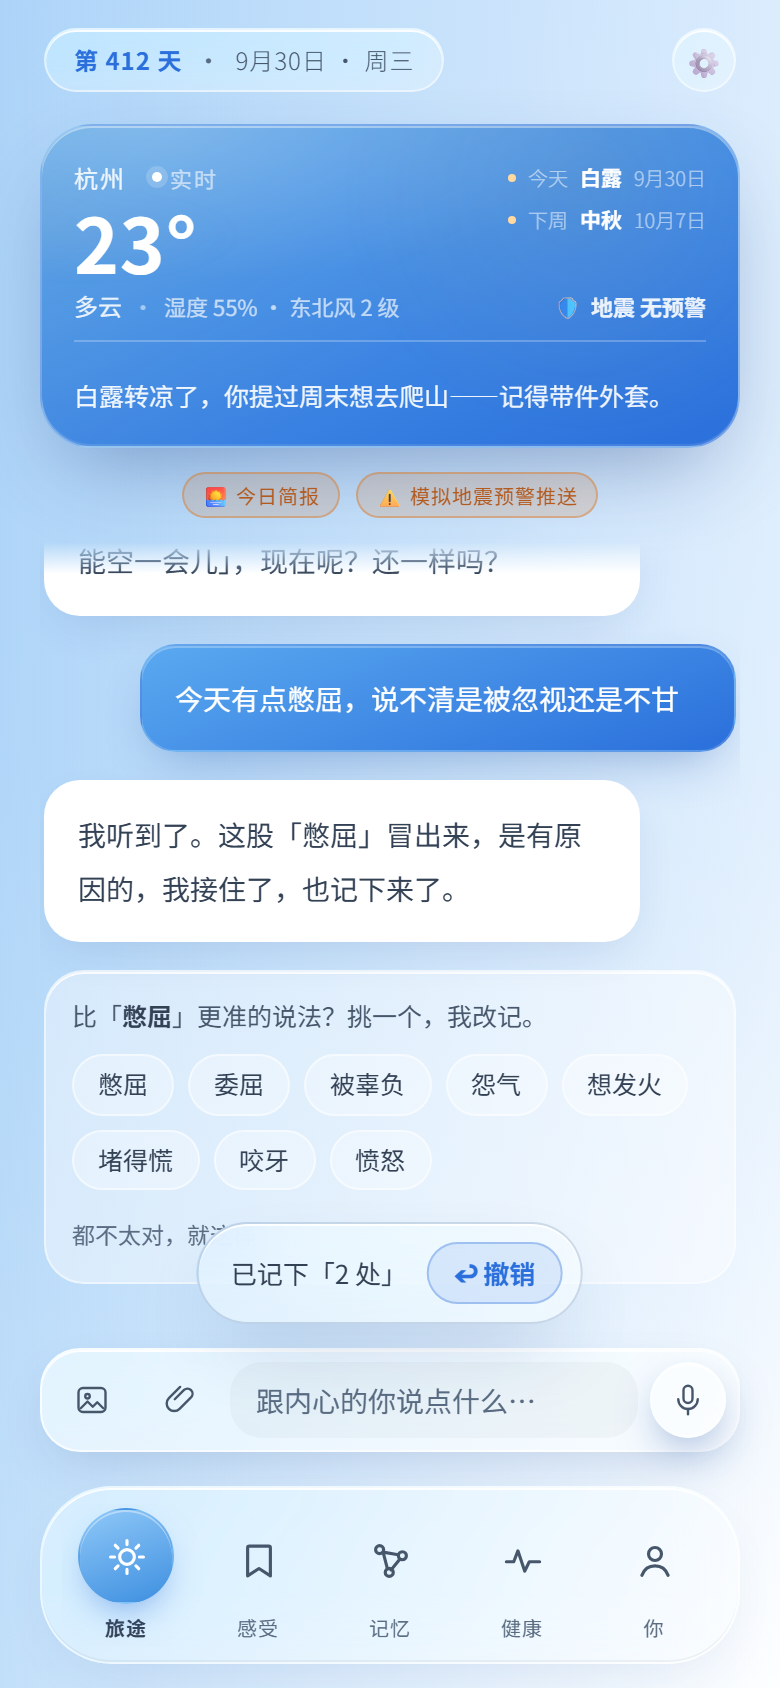
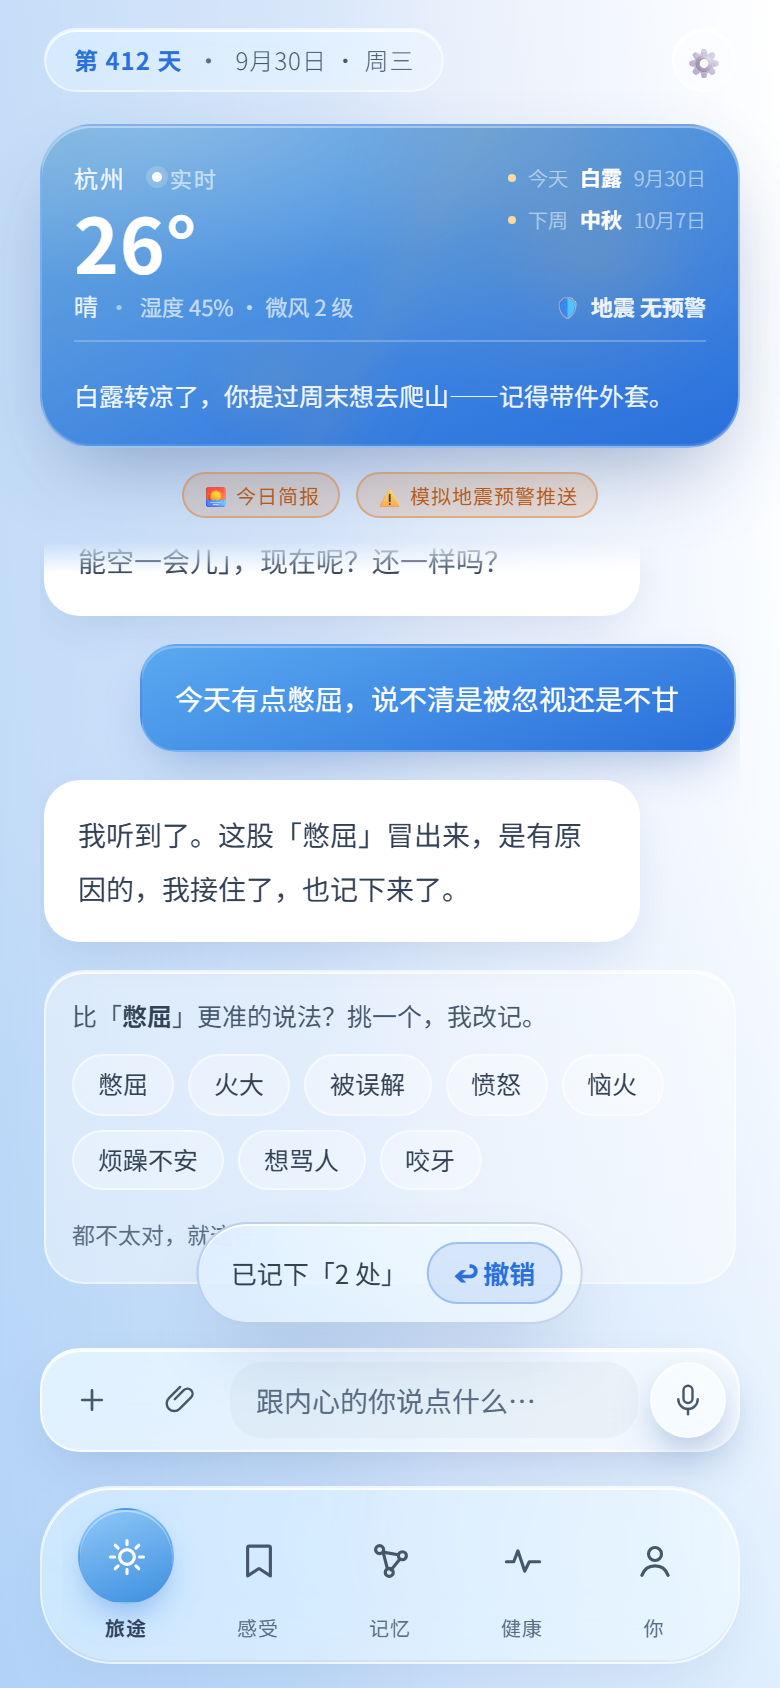
feat: + 键与毛玻璃二级菜单（图片/文件/拍照）

diff --git a/prototype/index.html b/prototype/index.html
@@ -2136,6 +2136,29 @@
 .chat-input.voice-mode .vn-frame { display: flex; }
 .chat-input.voice-mode .chat-tool,
 .chat-input.voice-mode .chat-text { display: none; }
+  /* v102 · 「+」二级菜单：毛玻璃卡片 */
+  .plus-menu{
+    position:absolute;z-index:60;min-width:196px;padding:6px;
+    border-radius:18px;
+    background:var(--glass-bg);
+    border:1px solid var(--glass-border);
+    -webkit-backdrop-filter:blur(24px) saturate(160%);
+    backdrop-filter:blur(24px) saturate(160%);
+    box-shadow:0 20px 44px -20px rgba(20,50,90,.5), inset 0 1px 0 var(--glass-hi);
+    animation:plusIn .18s cubic-bezier(.22,1,.36,1) both;
+  }
+  @keyframes plusIn{ from{opacity:0;transform:translateY(6px) scale(.98);} }
+  .plus-item{
+    display:flex;align-items:center;gap:10px;width:100%;
+    padding:9px 10px;border-radius:12px;border:none;background:transparent;
+    color:var(--text);font-family:inherit;font-size:13.5px;text-align:left;
+    cursor:pointer;transition:background .15s ease;
+  }
+  .plus-item:hover{background:var(--glass-bg-2);}
+  .plus-ico{display:grid;place-items:center;width:30px;height:30px;border-radius:10px;background:var(--glass-bg-2);color:var(--text-dim);flex:none;}
+  .plus-txt{display:flex;flex-direction:column;line-height:1.3;}
+  .plus-txt b{font-weight:500;}
+  .plus-txt i{font-style:normal;font-size:10.5px;color:var(--text-faint);}
 .chat-input.voice-mode .vn {
   width: 100% !important;
   height: 38px;
@@ -2653,7 +2676,7 @@
 
       <div class="chat-tip" id="chatTip" data-page-node-id="pQfkq11SjvINSs4wKmy1u8"></div>
       <div class="chat-input" data-page-node-id="ao47MGXSRyjw0CcytEUILY">
-        <button type="button" class="chat-tool" aria-label="图片" onclick="featureTip(this,'图片')" data-page-node-id="fEwofQRDVKx9Xsk7PwLbzA"><svg viewBox="0 0 24 24" width="18" height="18" fill="none" stroke="currentColor" stroke-width="1.6" stroke-linecap="round" stroke-linejoin="round" data-page-node-id="F7pSmxlK9GfcHD1E9ndjDc"><rect x="3" y="4" width="18" height="16" rx="3" data-page-node-id="WIlvcgWo8UTCJWfp8pElHt"></rect><circle cx="9" cy="9.5" r="1.5" data-page-node-id="HOKEDkOoWNuVlIwWAtrGqe"></circle><path d="M4.5 17.5l4.5-4.5 3.5 3.5 3-3 4 4" data-page-node-id="99w6r0pWEldxGpgAEtF4MR"></path></svg></button>
+        <button type="button" class="chat-tool" id="plusBtn" aria-label="添加" onclick="togglePlusMenu(event)"><svg viewBox="0 0 24 24" width="18" height="18" fill="none" stroke="currentColor" stroke-width="1.8" stroke-linecap="round"><path d="M12 5.5v13M5.5 12h13"></path></svg></button>
         <button type="button" class="chat-tool" aria-label="文件" onclick="featureTip(this,'文件')" data-page-node-id="7wnHKyNQsyqSJ40GYO99zx"><svg viewBox="0 0 24 24" width="18" height="18" fill="none" stroke="currentColor" stroke-width="1.6" stroke-linecap="round" stroke-linejoin="round" data-page-node-id="5XzNXBJ5nQaXcbJec29OPW"><path d="M8.5 11.5l6.2-6.2a3.4 3.4 0 0 1 4.8 4.8l-7.8 7.8a5 5 0 0 1-7.1-7.1l7.5-7.5" data-page-node-id="a5DPyOjWi5LaBi8jpufxsH"></path></svg></button>
         <input id="chatText" class="chat-text" type="text" placeholder="跟内心的你说点什么…" autocomplete="off" enterkeyhint="send" onkeydown="chatKey(event)" data-page-node-id="Kauv0KfdDrHBMlmtxjtAw9">
         <button type="button" class="chat-send" id="chatAction" data-mode="voice" aria-label="语音" onclick="chatActionTap()" data-page-node-id="aJpjOIsb5OcyuBRh8JcqEB"><svg viewBox="0 0 24 24" width="18" height="18" fill="none" stroke="currentColor" stroke-width="1.6" stroke-linecap="round" stroke-linejoin="round"><rect x="9" y="2.5" width="6" height="11.5" rx="3"></rect><path d="M5.5 11.5a6.5 6.5 0 0 0 13 0"></path><path d="M12 18v3.5"></path></svg></button>
@@ -7834,6 +7857,83 @@
     go = function(p){ _go(p); notify(); };
     if(document.readyState === 'loading'){ document.addEventListener('DOMContentLoaded', bind); }
     else { setTimeout(bind, 0); }
+  })();
+
+  /* ==========================================================================
+     v102 · 输入区的「+」二级菜单
+     点 + 在按钮上方弹出一张毛玻璃卡片：上传图片 / 上传文件 / 拍照。
+     菜单挂在 .frame 上——放在带 backdrop-filter 的祖先里会看不到真实背景。
+     ========================================================================== */
+  (function(){
+    var MENU_ID = 'plusMenu';
+    function svg(paths, extra){
+      return '<svg viewBox="0 0 24 24" width="18" height="18" fill="none" stroke="currentColor" stroke-width="1.7" stroke-linecap="round" stroke-linejoin="round" aria-hidden="true">' + paths + (extra || '') + '</svg>';
+    }
+    var ITEMS = [
+      { key:'image', label:'上传图片', hint:'JPG · PNG', icon: svg('<rect x="3" y="4.5" width="18" height="15" rx="3"></rect><circle cx="9" cy="10" r="1.5"></circle><path d="M4.5 17l4.5-4.5 3.5 3.5 3-3 4 4"></path>') },
+      { key:'file',  label:'上传文件', hint:'任意文件', icon: svg('<path d="M8.5 11.5l6.2-6.2a3.4 3.4 0 0 1 4.8 4.8l-7.8 7.8a5 5 0 0 1-7.1-7.1l7.5-7.5"></path>') },
+      { key:'camera',label:'拍照',     hint:'调用相机', icon: svg('<path d="M3.5 8.5h3l1.5-2h8l1.5 2h3v10.5h-17z"></path><circle cx="12" cy="13.5" r="3.4"></circle>') }
+    ];
+    function close(){
+      var m = document.getElementById(MENU_ID);
+      if(m) m.parentNode.removeChild(m);
+    }
+    function pick(kind){
+      close();
+      var input = document.createElement('input');
+      input.type = 'file';
+      input.style.display = 'none';
+      if(kind === 'image'){ input.accept = 'image/*'; }
+      else if(kind === 'camera'){ input.accept = 'image/*'; input.setAttribute('capture','environment'); }
+      input.addEventListener('change', function(){
+        var f = input.files && input.files[0];
+        if(f && typeof tip === 'function') tip('已选择「' + f.name + '」——上传通道还没接');
+        input.remove();
+      });
+      document.body.appendChild(input);
+      input.click();
+      setTimeout(function(){ if(input.parentNode) input.remove(); }, 60000);
+    }
+    function open(btn){
+      close();
+      var frame = document.querySelector('.frame');
+      if(!frame || !btn) return;
+      var m = document.createElement('div');
+      m.className = 'plus-menu';
+      m.id = MENU_ID;
+      m.setAttribute('role','menu');
+      ITEMS.forEach(function(it){
+        var row = document.createElement('button');
+        row.type = 'button';
+        row.className = 'plus-item';
+        row.setAttribute('role','menuitem');
+        row.innerHTML = '<span class="plus-ico">' + it.icon + '</span><span class="plus-txt"><b>' + it.label + '</b><i>' + it.hint + '</i></span>';
+        row.addEventListener('click', function(){ pick(it.key); });
+        m.appendChild(row);
+      });
+      frame.appendChild(m);
+      var br = btn.getBoundingClientRect(), fr = frame.getBoundingClientRect();
+      var mw = m.offsetWidth, mh = m.offsetHeight;
+      var left = br.left - fr.left;
+      if(left + mw > fr.width - 10) left = Math.max(10, fr.width - mw - 10);
+      m.style.left = left + 'px';
+      m.style.top = Math.max(8, br.top - fr.top - mh - 10) + 'px';
+      setTimeout(function(){ document.addEventListener('pointerdown', onDoc, true); }, 0);
+    }
+    function onDoc(e){
+      var m = document.getElementById(MENU_ID);
+      if(!m) return;
+      if(m.contains(e.target) || e.target.id === 'plusBtn' || e.target.closest('#plusBtn')) return;
+      close();
+      document.removeEventListener('pointerdown', onDoc, true);
+    }
+    window.togglePlusMenu = function(ev){
+      if(ev && ev.stopPropagation) ev.stopPropagation();
+      var m = document.getElementById(MENU_ID);
+      if(m){ close(); document.removeEventListener('pointerdown', onDoc, true); return; }
+      open(document.getElementById('plusBtn'));
+    };
+    document.addEventListener('keydown', function(e){ if(e.key === 'Escape') close(); });
   })();
 
 </script>
